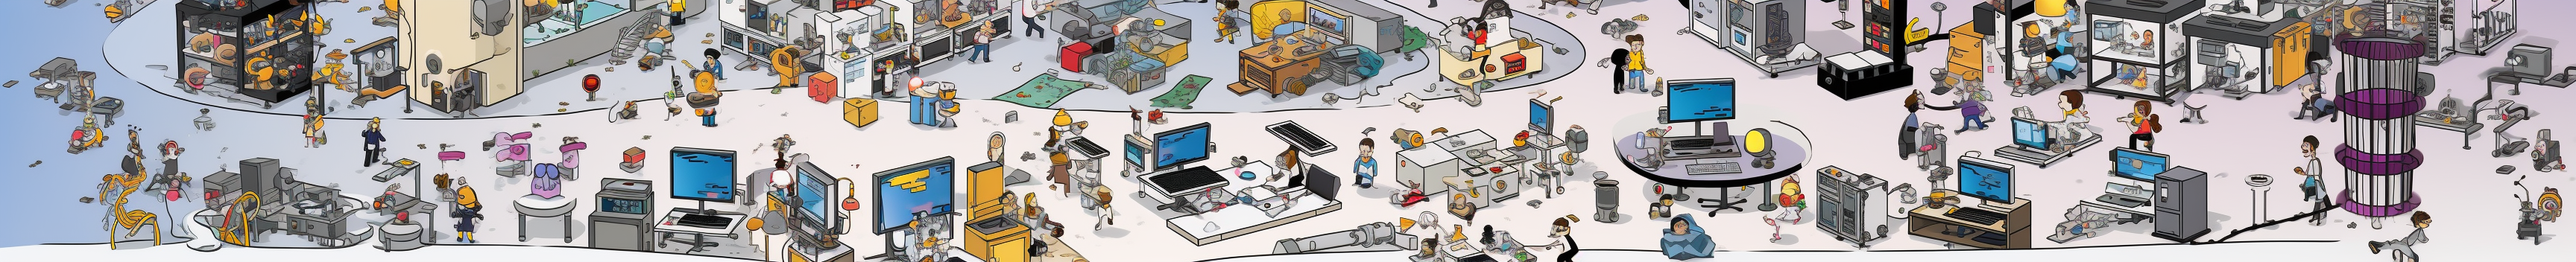
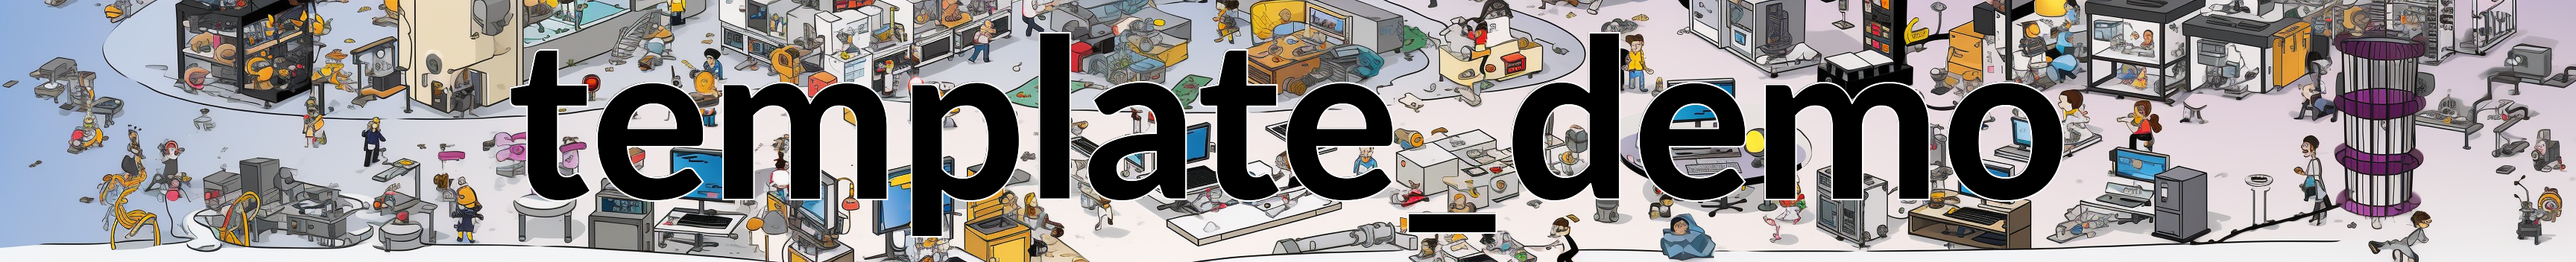
Initial template rename

Changed region(s): [[0.1875, 0.125, 0.8125, 0.9062], [0.5312, 0.8125, 0.5938, 0.9062]]

diff --git a/src/tests/electron_test.py b/src/tests/electron_test.py
@@ -1,6 +1,6 @@
 """Test the Electron class."""
 
-from src.{{project_name}}.main import Electron
+from src.template_demo.main import Electron
 
 
 def test_electron():

diff --git a/src/template_demo/__init__.py b/src/template_demo/__init__.py
@@ -1,0 +1,1 @@
+"""Main module for template_demo."""

diff --git a/README.md b/README.md
@@ -1,77 +1,91 @@
-# Python Project Template
+![Project Banner](.github/banner.png)
 
-## My opinionated python boilerplate.
+![Tests](https://github.com/evmckinney9/template_demo/actions/workflows/tests.yml/badge.svg?branch=main)
+![Format Check](https://github.com/evmckinney9/template_demo/actions/workflows/format-check.yml/badge.svg?branch=main)
+<a href="https://colab.research.google.com/github/evmckinney9/template_demo/blob/main/src/notebooks/01_main.ipynb" target="_parent"><img src="https://colab.research.google.com/assets/colab-badge.svg" alt="Open In Colab"/></a>
 
-### Git Quick Reference
+## 📌 Project Overview
+- [Link to paper:](https://arxiv.org/)
+- **Overview**: null
+- **Objective**:
+- **Strategy**:
 
-```bash
-make precommit
-git add .
-git commit
-```
+> [!IMPORTANT]  
+> This is an important note. Make sure to fill out the "Overview," "Objective," and "Strategy" sections with specific information about your project.
 
-If commit command makes changes (e.g. auto-fix formatting), then rerun `git add .` and `git commit` until all tests pass.
+## 🌟 Key Features
 
-## Getting Started
+- **Algorithm**: Defined in `src/**.py`
 
-This repository is a template for creating new Python(3.11) projects. To use this template, click the "Use this template" button at the top of the repository page.
+![image](https://github.com/evmckinney9/template_demo/images/plot.png)
 
-The `rename_project.sh` script will automatically rename all instances of the original project name, author name, and other details to match your new repository. The template uses Github Actions to automatically run this script when a new repository is created from the template. Before cloning, wait a moment for the renaming process to complete.
+> [!WARNING]  
+> This is a warning. Ensure to understand the algorithm and its limitations.
 
-Once cloned, run the following to install the python package and its dependencies in editable mode:
+## 📊 Results & Comparisons
 
-```bash
-make init
-```
+- **Experiments**: Detailed in `src/notebooks/results`
+- **Findings**:
 
-To add a new pip package, modify the `setup.cfg` file and add the package name to the `install_requires` list.
+![image](https://github.com/evmckinney9/template_demo/images/plot.png)
 
-On every commit, the pre-commit hooks will run after `git commit` to ensure that the code is properly formatted and passes all tests. If the hooks exit with failure, either (a) fix the errors and commit again, or (b) the errors were automatically fixed and you need to `git add` the changes and commit again.
+## 🚀 Getting Started
 
-To manually run all the pre-commit hooks, run the following:
-
-```bash
-make precommit
-```
-
-### Available Make Commands
-
-| Command         | Description                                                                                                                                                |
-| --------------- | ---------------------------------------------------------------------------------------------------------------------------------------------------------- |
-| **`init`**      | Initializes the project by creating a virtual environment, installing the necessary packages, and setting up pre-commit hooks. (Removes existing `.venv/`) |
-| `upgrade`       | Upgrades all packages to their latest versions. Use if have added new dependencies to the project.                                                         |
-| `clean`         | Removes temporary files and directories created during development.                                                                                        |
-| `test`          | Installs the required testing packages and runs the tests in the 'src/tests' directory.                                                                    |
-| `format`        | Installs the required formatting packages and runs pre-commit hooks on all files.                                                                          |
-| **`precommit`** | Runs the test, installs the required formatting packages, and runs pre-commit hooks on all files.                                                          |
-
-### Configuration Choices
-
-This project uses various tools and configurations to maintain a high standard of code quality and consistency:
-
-- **Ruff**: A high-performance Python linter built in Rust. [Ruff](https://github.com/charliermarsh/ruff) is utilized in this project for its speed and extensive rule set. It consolidates the functionality of various tools like Flake8, isort, pydocstyle, and more, into a single, fast, and efficient package.
-- **Black formatter**: The code is automatically formatted using the [Black](https://github.com/psf/black) code formatter, ensuring a consistent code style across the project.
-- **isort**: Imports are sorted and organized using [isort](https://github.com/PyCQA/isort), following the Black-compatible profile.
-- **pre-commit**: A set of [pre-commit](https://pre-commit.com/) hooks are used to automatically check and enforce code quality standards, such as trailing whitespace removal, JSON formatting, and more.
-- **docformatter**: The docstrings are formatted using [docformatter](https://github.com/PyCQA/docformatter) to ensure consistency and readability.
-- **pytest**: Tests are written and executed using the [pytest](https://docs.pytest.org/en/latest/) framework.
-
-#### Change Permission of rename_project.sh
+To use template_demo, install using the following command:
 
 ```bash
-git update-index --chmod=+x .github/scripts/*.sh
+pip install -e git+https://github.com/evmckinney9/template_demo#egg=template_demo
 ```
 
-### References:
+Then get started by exploring the main demo located at `src/template_demo/notebooks/01_main.ipynb`.
 
-> [1] https://github.com/rochacbruno/python-project-template
->
-> [2] https://duarteocarmo.com/blog/opinionated-python-boilerplate
->
-> [3] https://simonwillison.net/2021/Aug/28/dynamic-github-repository-templates/
->
-> [4] https://github.com/Qiskit/qiskit_sphinx_theme
->
-> [5] https://github.com/qiskit-community/quantum-prototype-template
->
-> [6] https://github.com/nbQA-dev/nbQA
+### 💻🐒 Usage
+
+```python
+from template_demo import *
+Foo()
+```
+
+> [!NOTE]  
+> This is an important note. Make sure to consult the demo notebook for usage examples.
+
+### 📋 Prerequisites
+
+- **Package Dependencies**:
+
+  - `package_name`
+
+- **Installation**:
+
+  - More details as needed.
+
+### Software Info💻🐒
+
+- **Please report any issues**. 😺
+- The main logic does ...
+- For more details, see code documentation or contact me.
+
+Additional utility commands available in the Makefile:
+
+- **make format**: Formats the codebase.
+- **make clean**: Cleans up temporary and unnecessary files.
+- **make test**: Runs tests to ensure code functionality.
+- For more information about the repository structure, visit my [python-template](https://github.com/evmckinney9/python-template).
+
+## 📚 Reference
+
+```bibtex
+@misc{cite_key,
+      title={{Title}},
+      author={{Author1 and Author2 and Author3}},
+      year={{Year}},
+      eprint={{eprint}},
+      archivePrefix={{ArchivePrefix}},
+      primaryClass={{PrimaryClass}}
+}
+```
+
+## 👯 Contributors
+<a href = "https://github.com/evmckinney9/template_demo/graphs/contributors">
+  <img src = "https://contrib.rocks/image?repo=evmckinney9/template_demo"/>
+</a>
